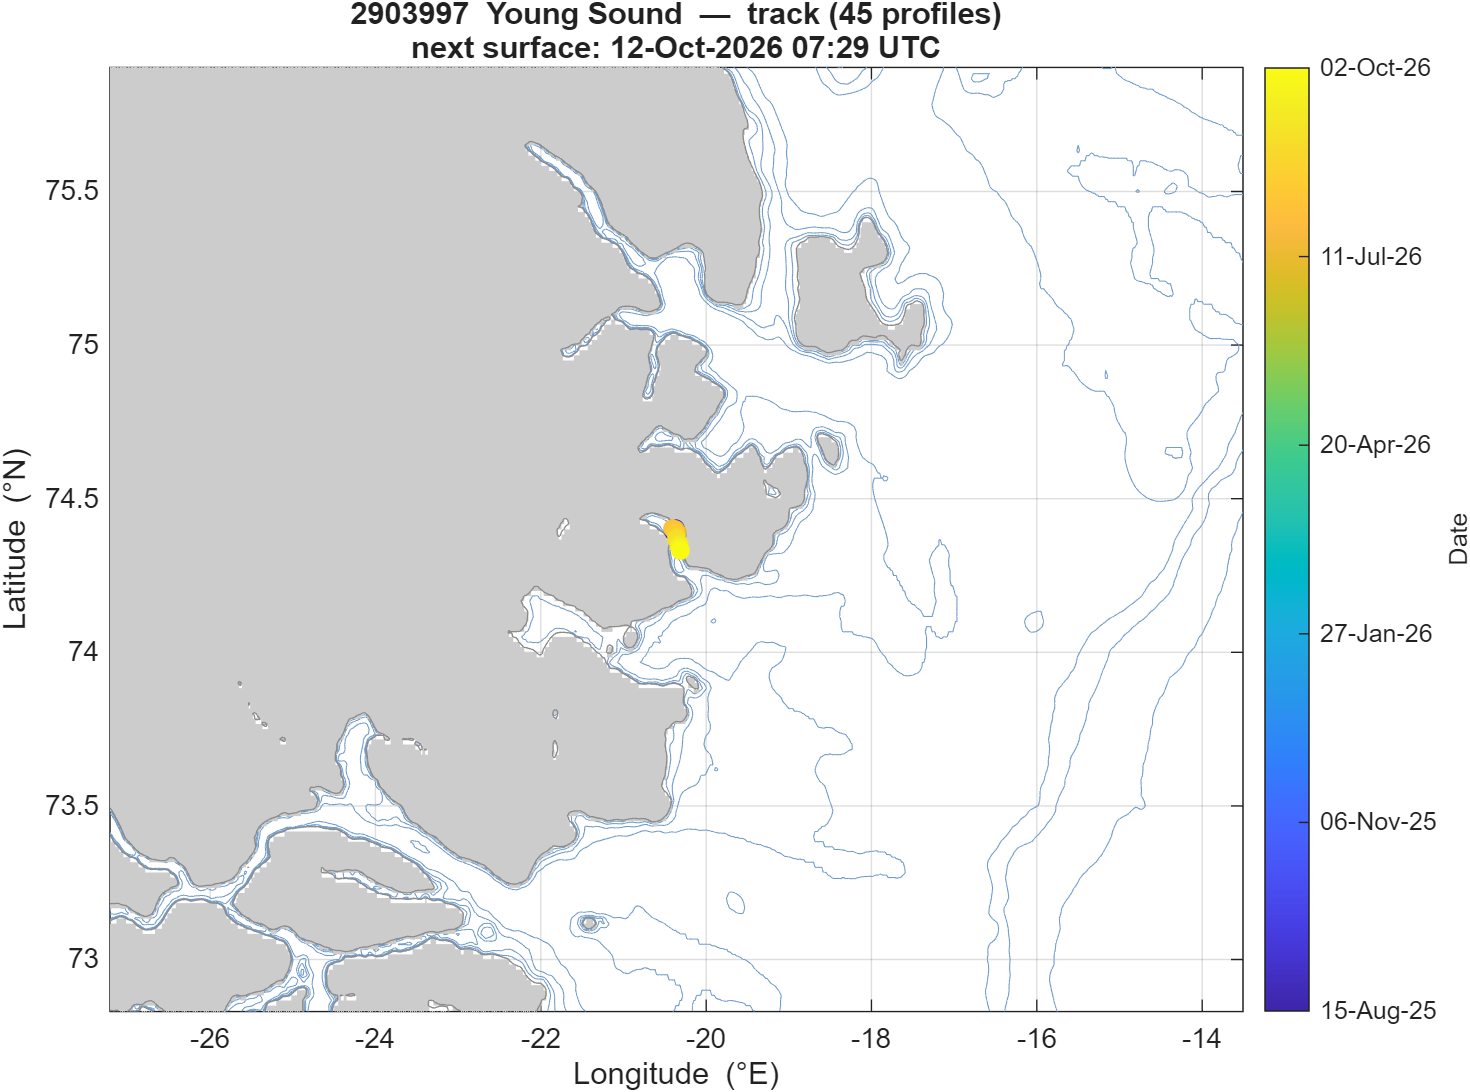
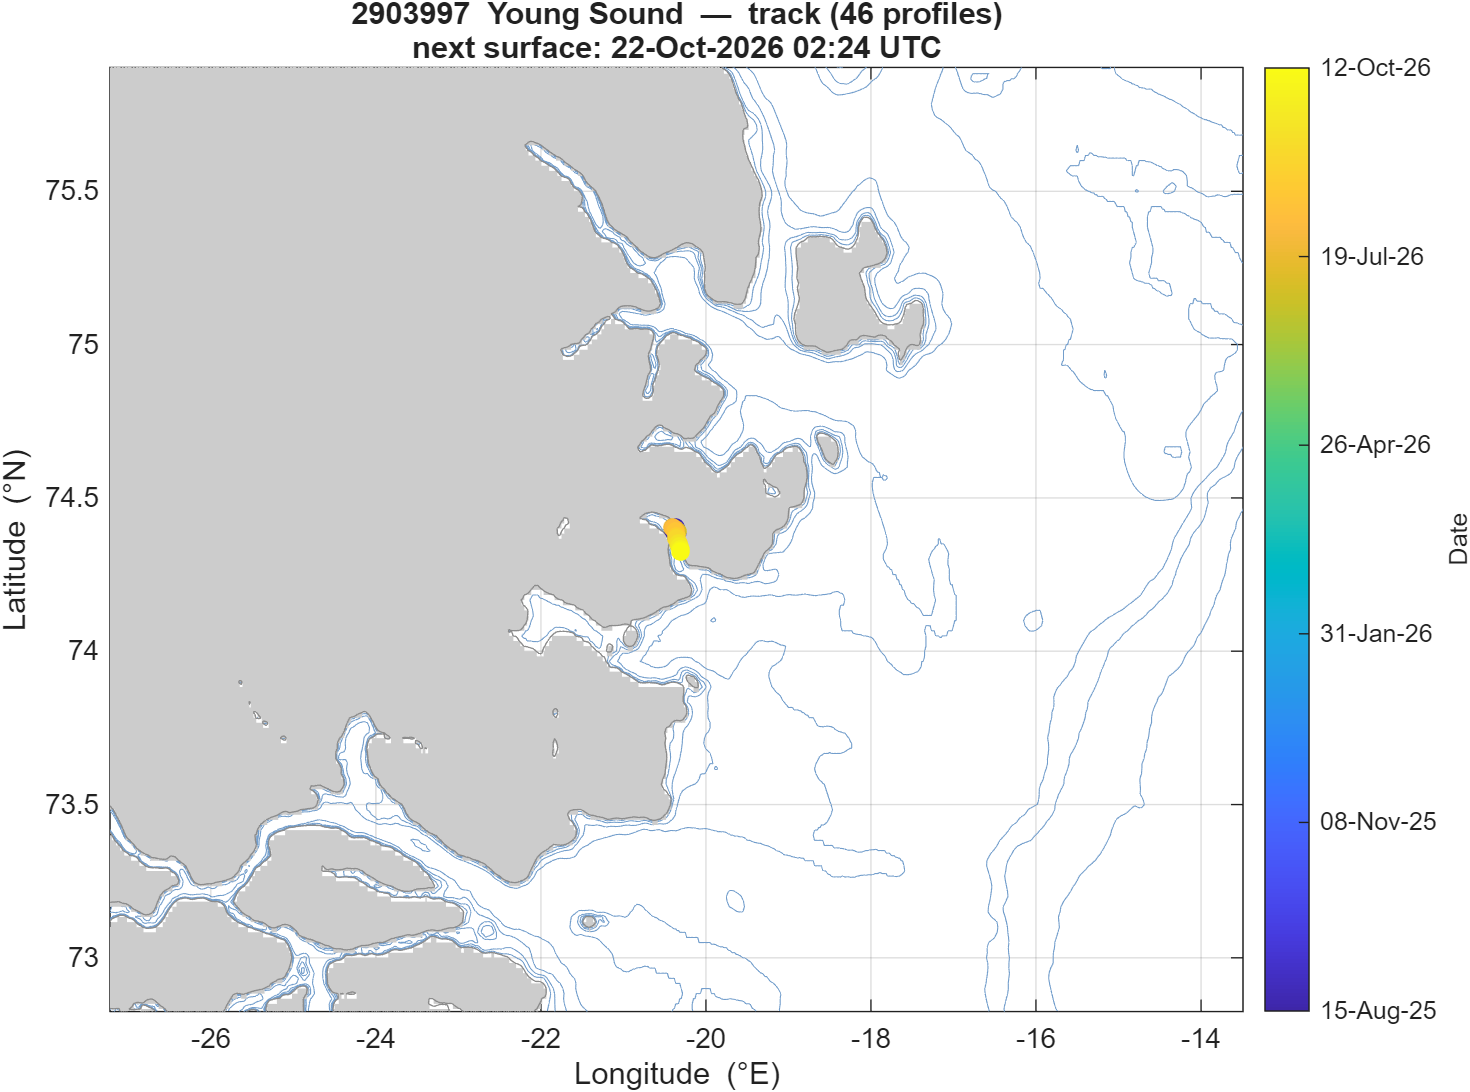
data update

diff --git a/data.js b/data.js
@@ -15,7 +15,7 @@
 //   graphs        [{label, src}, ...] figures for the fold-out
 //   notes         free text from floats_config.csv
 
-const floatUpdated = "2026-10-10 22:06";
+const floatUpdated = "2026-10-12 14:11";
 
 const floatData = [
   {
@@ -27,15 +27,15 @@ const floatData = [
     "region": "greenland",
     "status": "active",
     "status_note": "",
-    "latitude": 69.9058,
-    "longitude": -18.4954,
-    "location": "69.906° N, 18.495° W",
+    "latitude": 69.832,
+    "longitude": -18.4927,
+    "location": "69.832° N, 18.493° W",
     "deployment_date": "2025-05-27",
-    "last_surface": "2026-10-07 12:15",
-    "days_since": 3.4,
-    "next_surface": "2026-10-12 11:15",
+    "last_surface": "2026-10-12 11:04",
+    "days_since": 0.1,
+    "next_surface": "2026-10-17 10:04",
     "next_surface_source": "nke cycle period",
-    "n_profiles": 103,
+    "n_profiles": 104,
     "track": [
       [
         71.7159,
@@ -456,6 +456,10 @@ const floatData = [
       [
         69.9058,
         -18.4954
+      ],
+      [
+        69.832,
+        -18.4927
       ]
     ],
     "trajectory": "assets/plots/3902677/3902677_map.png",
@@ -465,8 +469,8 @@ const floatData = [
         "src": "assets/plots/3902677/3902677_sections.png"
       },
       {
-        "label": "Profile 103  (2026-10-07)",
-        "src": "assets/plots/3902677/3902677_profile_103_2026-10-07.png"
+        "label": "Profile 104  (2026-10-12)",
+        "src": "assets/plots/3902677/3902677_profile_104_2026-10-12.png"
       }
     ],
     "notes": "sheet lists SBD+GDAC"
@@ -485,7 +489,7 @@ const floatData = [
     "location": "67.527° N, 20.084° W",
     "deployment_date": "2025-02-10",
     "last_surface": "2026-10-09 09:08",
-    "days_since": 1.5,
+    "days_since": 3.2,
     "next_surface": "2026-10-14 08:08",
     "next_surface_source": "nke cycle period",
     "n_profiles": 124,
@@ -1022,7 +1026,7 @@ const floatData = [
     "location": "78.691° N, 11.255° W",
     "deployment_date": "2025-08-04",
     "last_surface": "2026-09-01 04:35",
-    "days_since": 39.7,
+    "days_since": 41.4,
     "next_surface": "2026-09-06 03:35",
     "next_surface_source": "nke cycle period",
     "n_profiles": 81,
@@ -1391,7 +1395,7 @@ const floatData = [
     "location": "72.911° N, 15.382° W",
     "deployment_date": "2025-10-30",
     "last_surface": "2026-10-08 05:41",
-    "days_since": 2.7,
+    "days_since": 4.4,
     "next_surface": "2026-10-13 04:41",
     "next_surface_source": "nke cycle period",
     "n_profiles": 69,
@@ -1712,7 +1716,7 @@ const floatData = [
     "location": "77.333° N, 70.981° W",
     "deployment_date": "2025-08-13",
     "last_surface": "2026-10-08 23:34",
-    "days_since": 1.9,
+    "days_since": 3.6,
     "next_surface": "2026-10-13 22:34",
     "next_surface_source": "nke cycle period",
     "n_profiles": 65,
@@ -2012,15 +2016,15 @@ const floatData = [
     "region": "greenland",
     "status": "active",
     "status_note": "",
-    "latitude": 74.3304,
-    "longitude": -20.3108,
-    "location": "74.330° N, 20.311° W",
+    "latitude": 74.3247,
+    "longitude": -20.307,
+    "location": "74.325° N, 20.307° W",
     "deployment_date": "2025-08-17",
-    "last_surface": "2026-10-02 12:29",
-    "days_since": 8.4,
-    "next_surface": "2026-10-12 07:29",
+    "last_surface": "2026-10-12 07:24",
+    "days_since": 0.3,
+    "next_surface": "2026-10-22 02:24",
     "next_surface_source": "nke cycle period",
-    "n_profiles": 42,
+    "n_profiles": 43,
     "track": [
       [
         74.3939,
@@ -2201,6 +2205,10 @@ const floatData = [
       [
         74.3304,
         -20.3108
+      ],
+      [
+        74.3247,
+        -20.307
       ]
     ],
     "trajectory": "assets/plots/2903997/2903997_map.png",
@@ -2210,8 +2218,8 @@ const floatData = [
         "src": "assets/plots/2903997/2903997_sections.png"
       },
       {
-        "label": "Profile 043  (2026-10-02)",
-        "src": "assets/plots/2903997/2903997_profile_043_2026-10-02.png"
+        "label": "Profile 044  (2026-10-12)",
+        "src": "assets/plots/2903997/2903997_profile_044_2026-10-12.png"
       }
     ],
     "notes": ""
@@ -2230,7 +2238,7 @@ const floatData = [
     "location": "56.332° N, 19.435° E",
     "deployment_date": "2024-11-25",
     "last_surface": "2026-10-09 21:47",
-    "days_since": 1,
+    "days_since": 2.7,
     "next_surface": "2026-10-14 16:47",
     "next_surface_source": "nke cycle period",
     "n_profiles": 147,
@@ -2855,7 +2863,7 @@ const floatData = [
     "location": "55.201° N, 9.753° E",
     "deployment_date": "2026-06-23",
     "last_surface": "2026-10-10 15:15",
-    "days_since": 0.3,
+    "days_since": 2,
     "next_surface": "2026-10-15 14:06",
     "next_surface_source": "median cycle interval",
     "n_profiles": 23,
@@ -2980,7 +2988,7 @@ const floatData = [
     "location": "54.986° N, 10.227° E",
     "deployment_date": "2026-06-24",
     "last_surface": "2026-10-08 01:53",
-    "days_since": 2.8,
+    "days_since": 4.5,
     "next_surface": "2026-10-13 01:48",
     "next_surface_source": "median cycle interval",
     "n_profiles": 22,
@@ -3095,13 +3103,13 @@ const floatData = [
     "sensors": "bgc",
     "region": "denmark",
     "status": "inactive",
-    "status_note": "no transmission for 461 days — no next surfacing predicted",
+    "status_note": "no transmission for 463 days — no next surfacing predicted",
     "latitude": 55.1358,
     "longitude": 14.5121,
     "location": "55.136° N, 14.512° E",
     "deployment_date": "2023-11-07",
     "last_surface": "2025-07-06 10:58",
-    "days_since": 461.5,
+    "days_since": 463.1,
     "next_surface": "",
     "next_surface_source": "",
     "n_profiles": 190,
